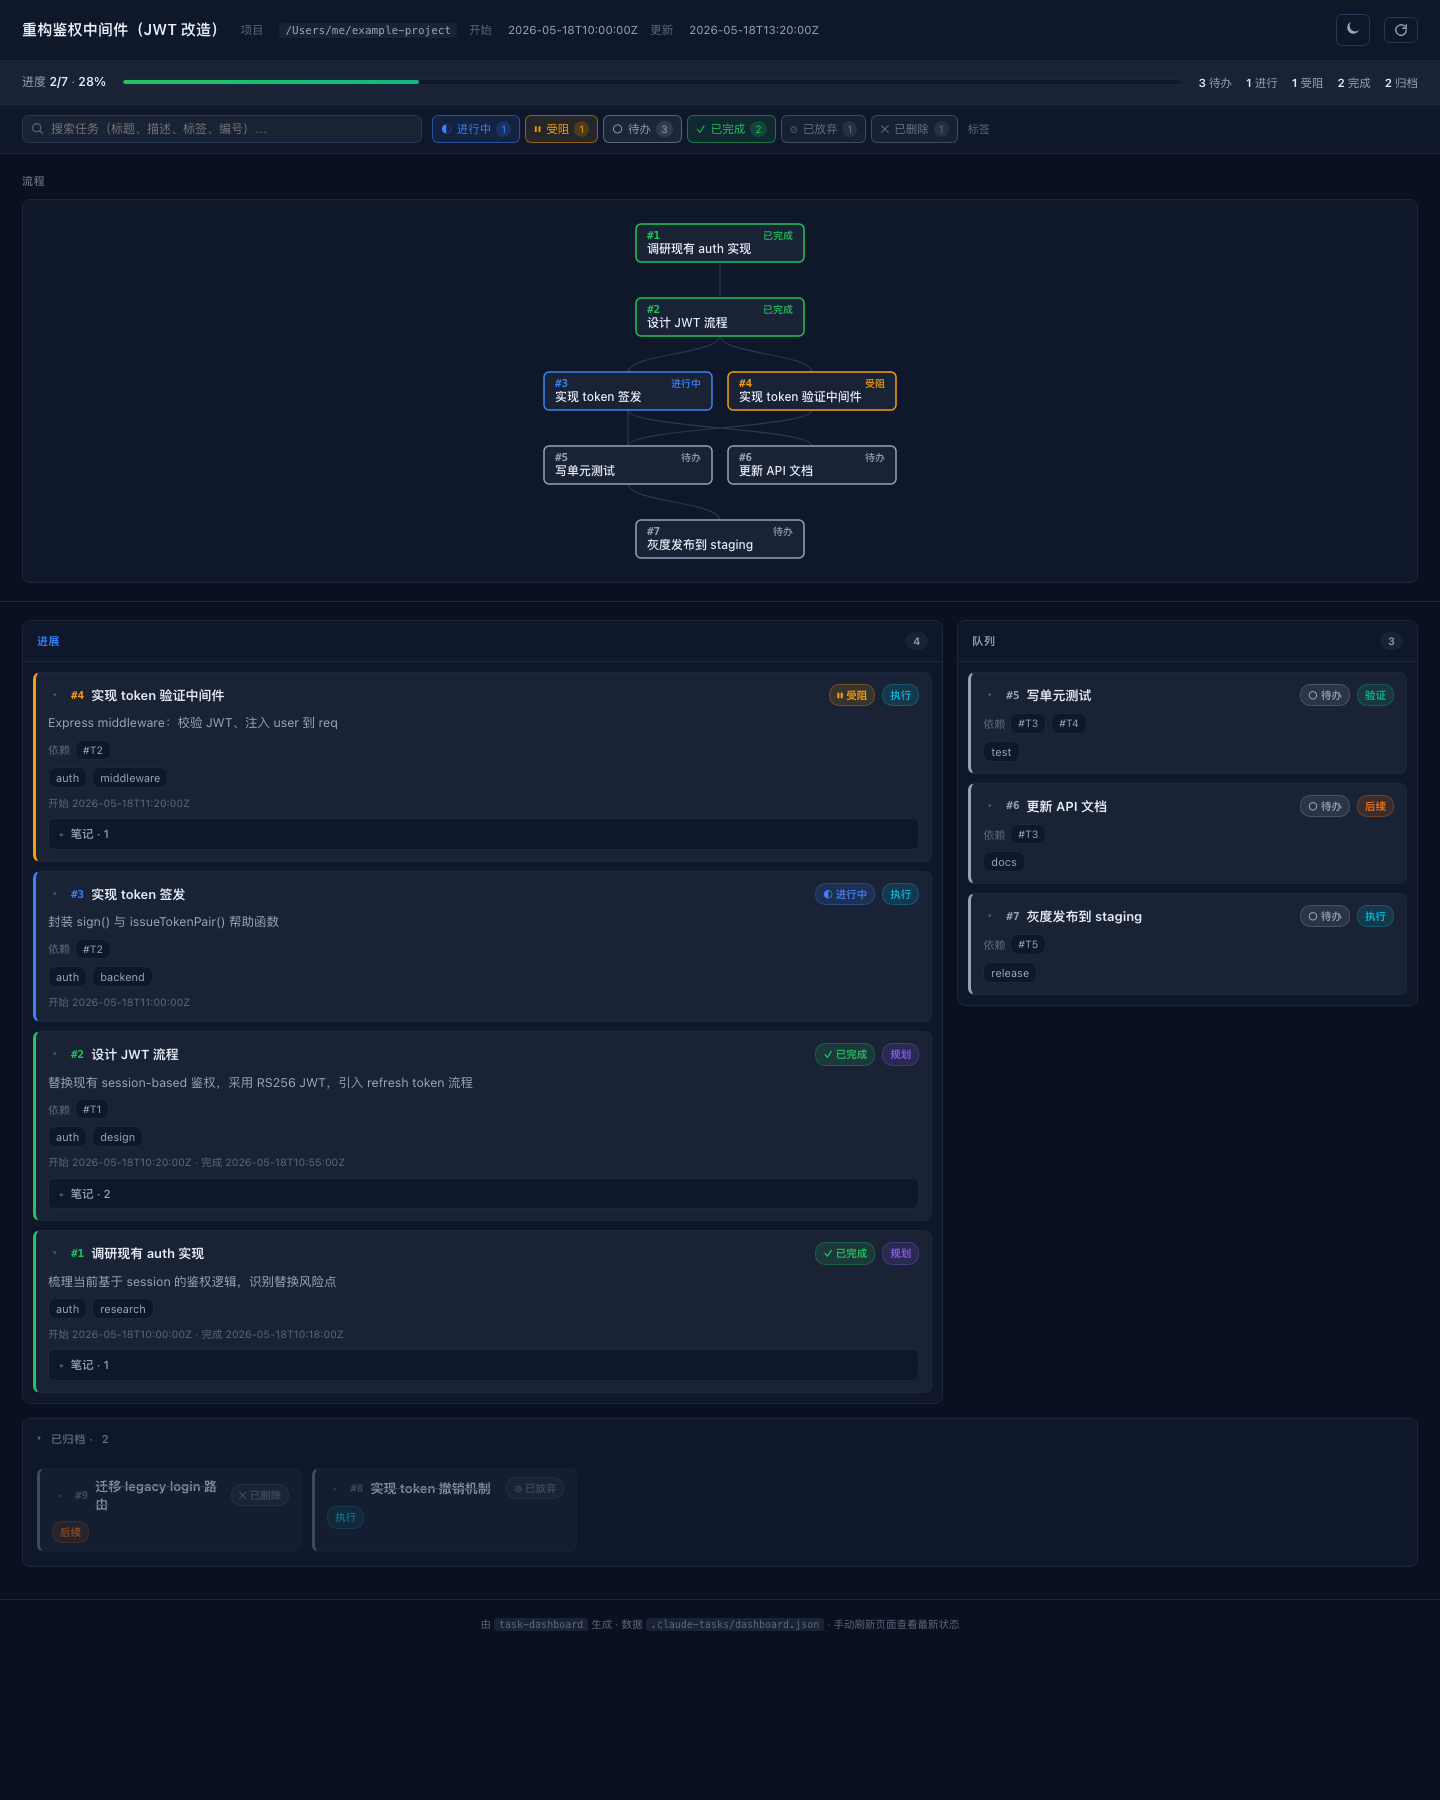
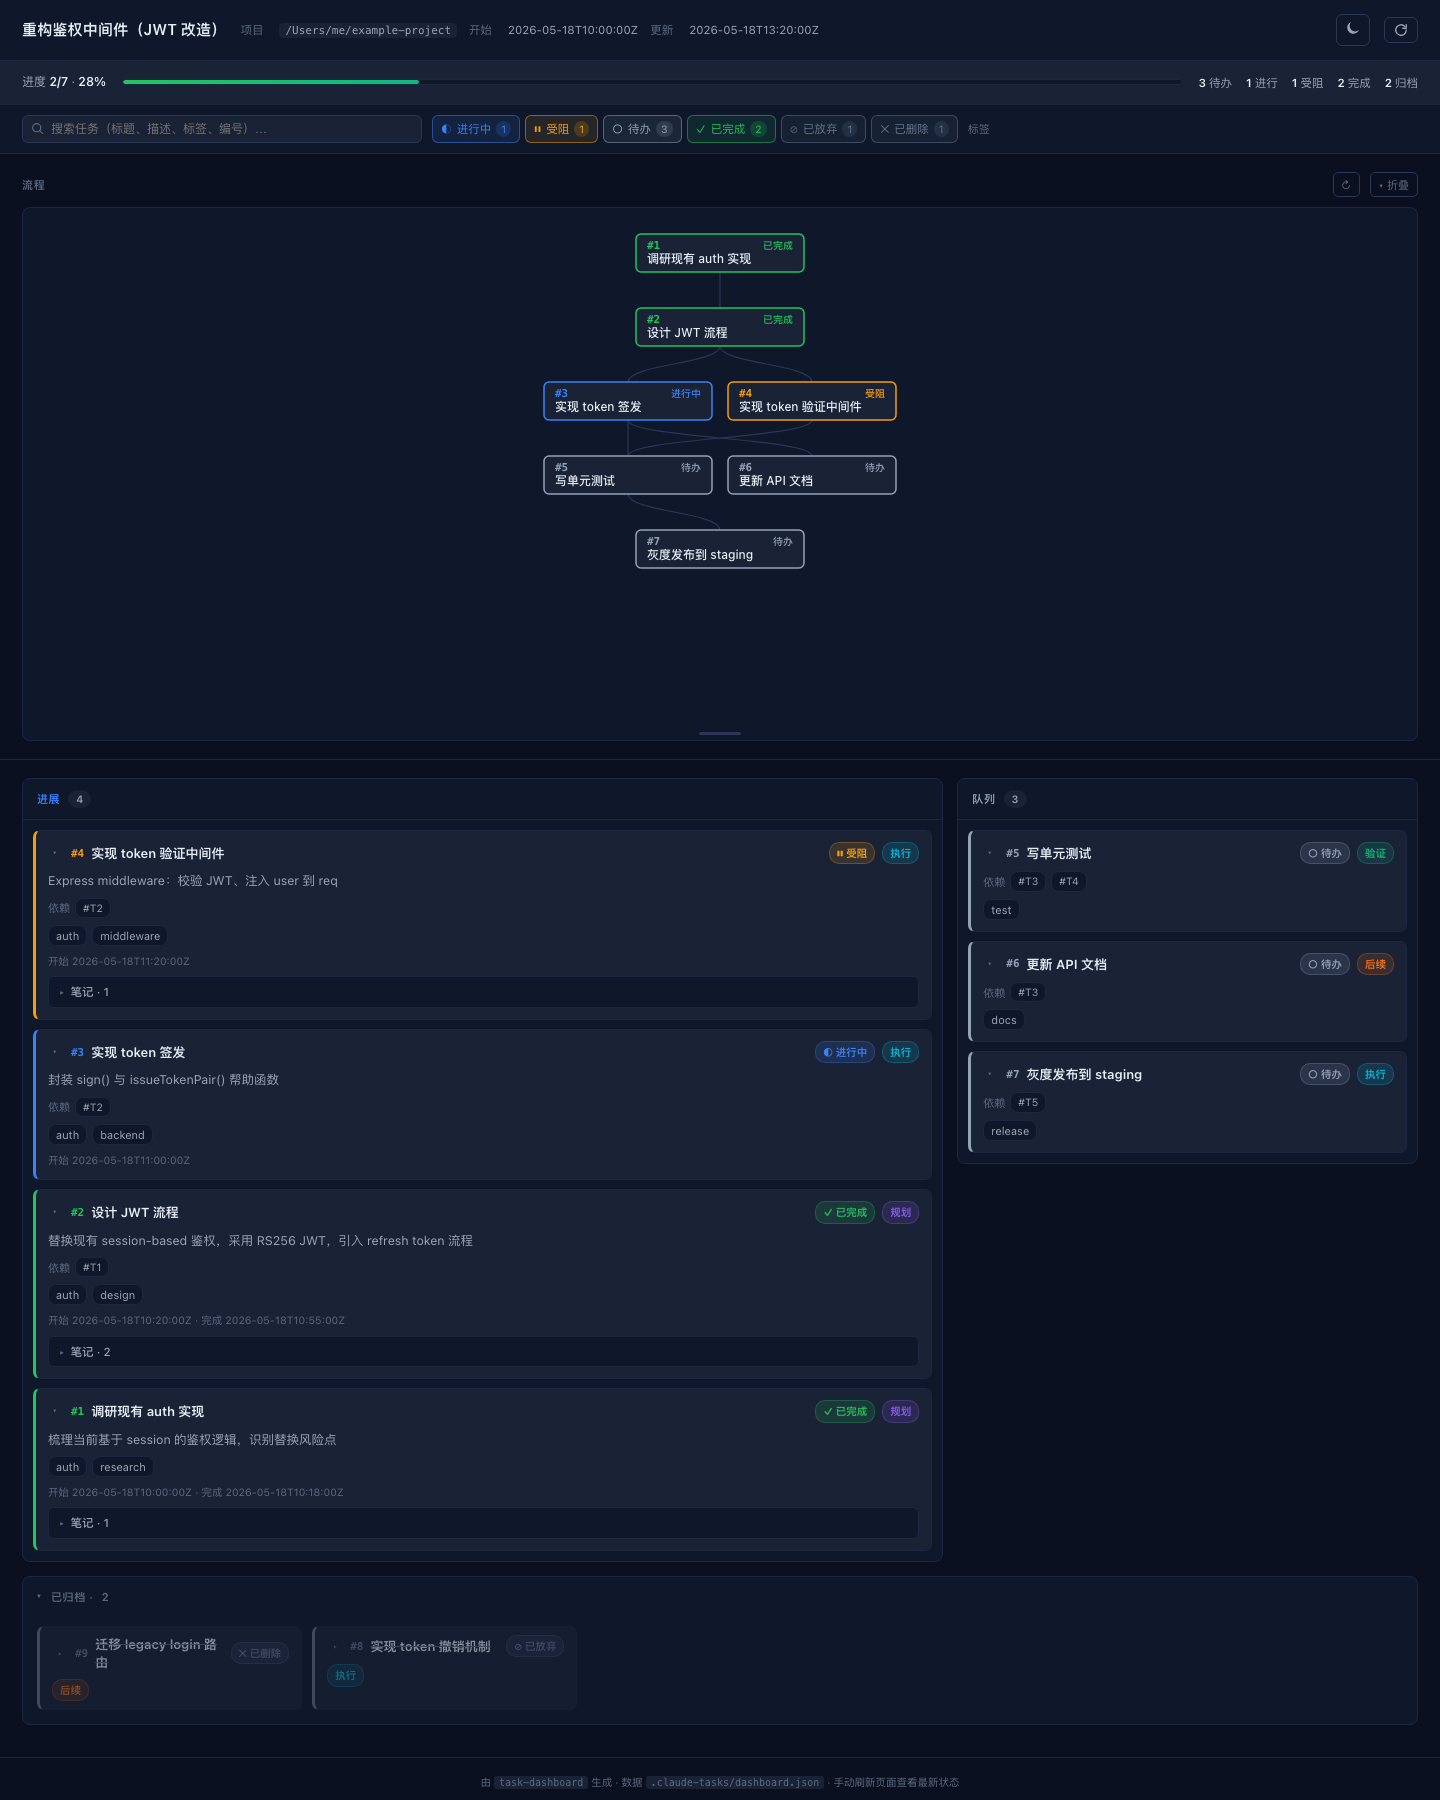
feat(flow): resizable + collapsible SVG section
Two real complaints from a 10-task run with linear deps:
  1. The flow occupied ~480px of fixed height and couldn't be made
     smaller — the board was forced to the second screen.
  2. With short flows the wrapper still painted to max-height, leaving
     a visible empty band between the SVG and the board.

This change adds a draggable resize handle and a one-click fold:

- Bottom-aligned 14px drag bar with a centered pill grip. Hover and
  drag states lift the grip color to the accent; cursor becomes
  ns-resize across the whole bar.
- Drag adjusts --flow-h on :root in real time; release persists the
  value to localStorage (key: task-dashboard-flow-h) so the dashboard
  remembers the layout across sessions.
- Double-clicking the handle, or pressing the ↻ button in the section
  header, removes the saved height and falls back to the responsive
  default clamp(280px, 50vh, 520px).
- ▾ Fold / ▸ Unfold button hides the SVG and the handle entirely,
  letting the user collapse the flow when they only want the board.
  State persisted under task-dashboard-flow-collapsed.
- Touch + keyboard accessibility: touchstart/touchmove/touchend mirror
  the mouse path; the handle is focusable (tabIndex=0) and supports
  Arrow / PageUp / PageDown / Home / End / Enter for accessible resize.
- Initial wrapper height switched from a hard 480px max-height to
  height: var(--flow-h, clamp(280px, 50vh, 520px)), removing the empty
  gap on short flows while still capping at 85vh for long ones.

diff --git a/scripts/render.py b/scripts/render.py
@@ -506,13 +506,37 @@ button{font:inherit}
 .clear-filters:hover{color:var(--fg)}
 
 /* flow */
-.flow{padding:18px 22px;border-bottom:1px solid var(--line)}
-.section-title{margin:0 0 10px;font-size:11px;font-weight:600;color:var(--fg-3);
-  letter-spacing:.7px;text-transform:uppercase;display:flex;align-items:center;justify-content:space-between}
-.flow-wrap{overflow:auto;max-height:480px;
-  background:var(--panel);border:1px solid var(--line);border-radius:8px;padding:6px 14px;
-  display:flex;justify-content:center;align-items:flex-start}
+.flow{padding:18px 22px 0;border-bottom:1px solid var(--line)}
+.section-title{margin:0;font-size:11px;font-weight:600;color:var(--fg-3);
+  letter-spacing:.7px;text-transform:uppercase;display:flex;align-items:center;gap:8px}
+.flow-header{display:flex;align-items:center;gap:10px;margin-bottom:10px}
+.flow-header .section-title{flex:1}
+.flow-action{background:transparent;color:var(--fg-3);border:1px solid var(--line-2);
+  border-radius:5px;padding:3px 8px;font-size:11px;cursor:pointer;
+  display:inline-flex;align-items:center;gap:4px;transition:color .12s,border-color .12s}
+.flow-action:hover{color:var(--fg);border-color:var(--accent)}
+.flow-action svg{width:11px;height:11px}
+.flow-wrap{overflow:auto;
+  background:var(--panel);border:1px solid var(--line);border-radius:8px 8px 0 0;
+  padding:8px 14px;border-bottom:none;
+  display:flex;justify-content:center;align-items:flex-start;
+  min-height:180px;max-height:85vh;
+  height:var(--flow-h, clamp(280px, 50vh, 520px));
+  transition:height .12s ease}
 .flow-svg{display:block;max-width:100%;height:auto;flex:none}
+.flow-resizer{height:14px;cursor:ns-resize;display:flex;
+  align-items:center;justify-content:center;
+  background:var(--panel);border:1px solid var(--line);border-top:none;
+  border-radius:0 0 8px 8px;margin-bottom:18px;transition:background .12s}
+.flow-resizer:hover{background:color-mix(in srgb,var(--accent) 10%,transparent)}
+.flow-resizer.dragging{background:color-mix(in srgb,var(--accent) 16%,transparent)}
+.flow-resizer-handle{width:42px;height:3px;background:var(--line-2);border-radius:2px;
+  transition:background .12s,width .12s}
+.flow-resizer:hover .flow-resizer-handle,
+.flow-resizer.dragging .flow-resizer-handle{background:var(--accent);width:60px}
+.flow.collapsed{padding-bottom:18px}
+.flow.collapsed .flow-wrap{display:none}
+.flow.collapsed .flow-resizer{display:none}
 .svg-node{cursor:pointer}
 .svg-node:focus{outline:none}
 .svg-node:focus rect{stroke-width:2.5}
@@ -529,7 +553,7 @@ button{font:inherit}
 .node-title-sm{font:500 11px/1 -apple-system,system-ui,sans-serif;fill:var(--fg)}
 .edge{fill:none;stroke:var(--line-2);stroke-width:1.2}
 .edge.bus{stroke-width:1.6;stroke-linecap:round}
-.svg-empty{padding:28px;text-align:center;color:var(--fg-3);font-size:12.5px}
+.svg-empty{padding:28px;text-align:center;color:var(--fg-3);font-size:12.5px;width:100%}
 
 /* main board */
 main{padding:18px 22px 32px}
@@ -676,9 +700,17 @@ def render_html(data):
 
 {toolbar}
 
-<section class="flow">
-  <h2 class="section-title"><span>流程</span></h2>
-  <div class="flow-wrap">{svg}</div>
+<section class="flow" id="flowSection">
+  <div class="flow-header">
+    <h2 class="section-title"><span>流程</span></h2>
+    <button id="flowResetBtn" class="flow-action" type="button" title="恢复默认高度（双击拖动条也可）">↻</button>
+    <button id="flowToggleBtn" class="flow-action" type="button" aria-expanded="true" title="折叠流程图">▾ 折叠</button>
+  </div>
+  <div class="flow-wrap" id="flowWrap">{svg}</div>
+  <div class="flow-resizer" id="flowResizer" role="separator" aria-orientation="horizontal"
+       aria-label="拖动调整流程图高度 · 双击重置" title="拖动调整 · 双击重置">
+    <div class="flow-resizer-handle"></div>
+  </div>
 </section>
 
 <main>{board}</main>
@@ -868,6 +900,88 @@ def render_html(data):
     card.classList.add('flash');
     setTimeout(() => card.classList.remove('flash'), 1100);
   }}
+
+  // ---------- flow resizer + collapse ----------
+  const flowSection = document.getElementById('flowSection');
+  const flowWrap = document.getElementById('flowWrap');
+  const flowResizer = document.getElementById('flowResizer');
+  const flowToggleBtn = document.getElementById('flowToggleBtn');
+  const flowResetBtn = document.getElementById('flowResetBtn');
+
+  const savedH = localStorage.getItem('task-dashboard-flow-h');
+  if (savedH) document.documentElement.style.setProperty('--flow-h', savedH);
+  if (localStorage.getItem('task-dashboard-flow-collapsed') === '1') setCollapsed(true);
+
+  function setCollapsed(c) {{
+    flowSection.classList.toggle('collapsed', c);
+    flowToggleBtn.setAttribute('aria-expanded', !c);
+    flowToggleBtn.textContent = c ? '▸ 展开' : '▾ 折叠';
+    flowToggleBtn.title = c ? '展开流程图' : '折叠流程图';
+    localStorage.setItem('task-dashboard-flow-collapsed', c ? '1' : '0');
+  }}
+  flowToggleBtn.addEventListener('click', () => setCollapsed(!flowSection.classList.contains('collapsed')));
+  flowResetBtn.addEventListener('click', () => {{
+    document.documentElement.style.removeProperty('--flow-h');
+    localStorage.removeItem('task-dashboard-flow-h');
+    if (flowSection.classList.contains('collapsed')) setCollapsed(false);
+  }});
+
+  let drag = null;
+  function startDrag(clientY) {{
+    drag = {{ startY: clientY, startH: flowWrap.offsetHeight }};
+    flowResizer.classList.add('dragging');
+    document.body.style.cursor = 'ns-resize';
+    document.body.style.userSelect = 'none';
+  }}
+  function doDrag(clientY) {{
+    if (!drag) return;
+    const max = Math.max(window.innerHeight * 0.85, 320);
+    const h = Math.max(180, Math.min(max, drag.startH + clientY - drag.startY));
+    document.documentElement.style.setProperty('--flow-h', h + 'px');
+  }}
+  function endDrag() {{
+    if (!drag) return;
+    drag = null;
+    flowResizer.classList.remove('dragging');
+    document.body.style.cursor = '';
+    document.body.style.userSelect = '';
+    const h = document.documentElement.style.getPropertyValue('--flow-h');
+    if (h) localStorage.setItem('task-dashboard-flow-h', h.trim());
+  }}
+  flowResizer.addEventListener('mousedown', (e) => {{
+    e.preventDefault();
+    startDrag(e.clientY);
+  }});
+  document.addEventListener('mousemove', (e) => drag && doDrag(e.clientY));
+  document.addEventListener('mouseup', endDrag);
+  flowResizer.addEventListener('touchstart', (e) => {{
+    if (e.touches[0]) startDrag(e.touches[0].clientY);
+  }}, {{ passive: true }});
+  document.addEventListener('touchmove', (e) => {{
+    if (drag && e.touches[0]) {{ e.preventDefault(); doDrag(e.touches[0].clientY); }}
+  }}, {{ passive: false }});
+  document.addEventListener('touchend', endDrag);
+  // double-click resets
+  flowResizer.addEventListener('dblclick', () => {{
+    document.documentElement.style.removeProperty('--flow-h');
+    localStorage.removeItem('task-dashboard-flow-h');
+  }});
+  // keyboard accessibility on resizer
+  flowResizer.tabIndex = 0;
+  flowResizer.addEventListener('keydown', (e) => {{
+    const cur = flowWrap.offsetHeight;
+    if (e.key === 'ArrowUp')    {{ e.preventDefault(); document.documentElement.style.setProperty('--flow-h', Math.max(180, cur - 24) + 'px'); }}
+    if (e.key === 'ArrowDown')  {{ e.preventDefault(); document.documentElement.style.setProperty('--flow-h', Math.min(window.innerHeight * 0.85, cur + 24) + 'px'); }}
+    if (e.key === 'PageUp')     {{ e.preventDefault(); document.documentElement.style.setProperty('--flow-h', Math.max(180, cur - 96) + 'px'); }}
+    if (e.key === 'PageDown')   {{ e.preventDefault(); document.documentElement.style.setProperty('--flow-h', Math.min(window.innerHeight * 0.85, cur + 96) + 'px'); }}
+    if (e.key === 'Home' || e.key === 'End' || e.key === 'Enter') {{
+      e.preventDefault();
+      document.documentElement.style.removeProperty('--flow-h');
+      localStorage.removeItem('task-dashboard-flow-h');
+    }}
+    const h = document.documentElement.style.getPropertyValue('--flow-h');
+    if (h) localStorage.setItem('task-dashboard-flow-h', h.trim());
+  }});
 
   // initial
   loadHash();

diff --git a/README.md b/README.md
@@ -33,6 +33,7 @@ A [Claude Code skill](https://code.claude.com/docs/en/skills) that maintains a b
   - 16–50: compact cards with title only
   - 51+: heatmap squares (status-colored, id only) so 100 tasks still fit on one screen
   Each layer wraps to multiple rows when too wide, and a 5-child fan-out collapses into a clean horizontal bus instead of crossing curves.
+- **Resizable & collapsible flow** — drag the handle below the SVG to give it more or less room (state persists across sessions); double-click the handle (or hit the ↻ button) to reset; one-click ▾ Fold tucks the entire flow away when you just want to see the board. Keyboard friendly: focus the handle and use Arrow/PageUp/PageDown/Home/End.
 - **Two-track board**: a chronological **feed** (in-progress + blocked + completed, newest first) on the left two-thirds; an **upcoming queue** on the right one-third; archived tasks in a collapsible footer. Layout collapses gracefully when the queue is empty.
 - **Search + filter toolbar** — substring search across titles, descriptions, tags, and ids; status chips toggle on/off; tags inside cards are click-to-filter. All state is reflected in the URL hash, so you can bookmark or share a filtered view.
 - **Cards collapse when there are many tasks** — the feed defaults to a one-line summary above 20 tasks; click the chevron or any SVG node to expand a specific card.